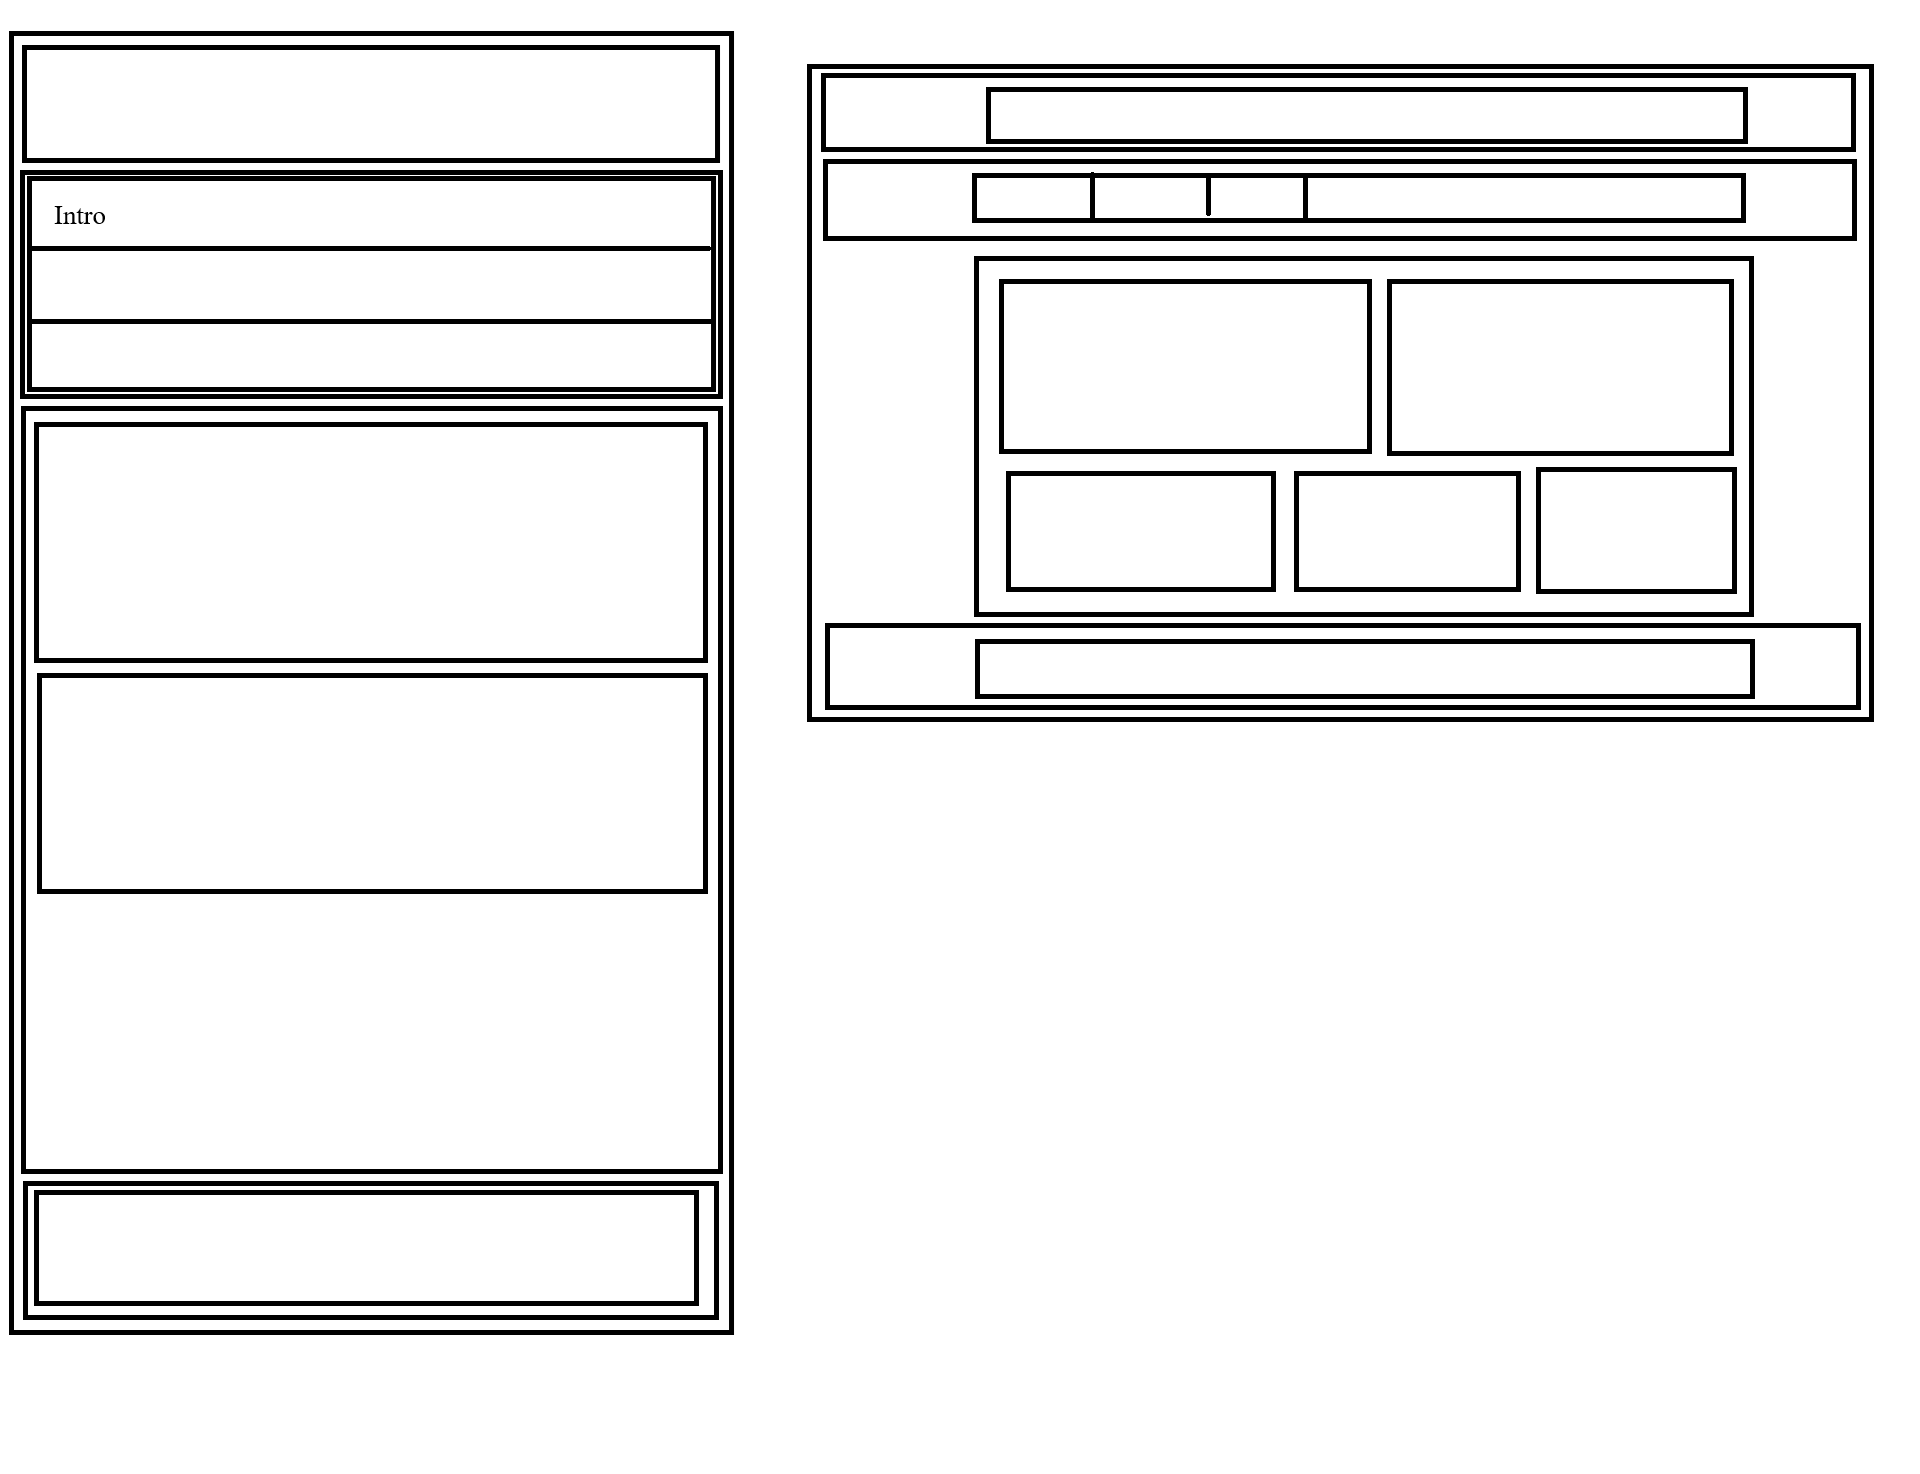
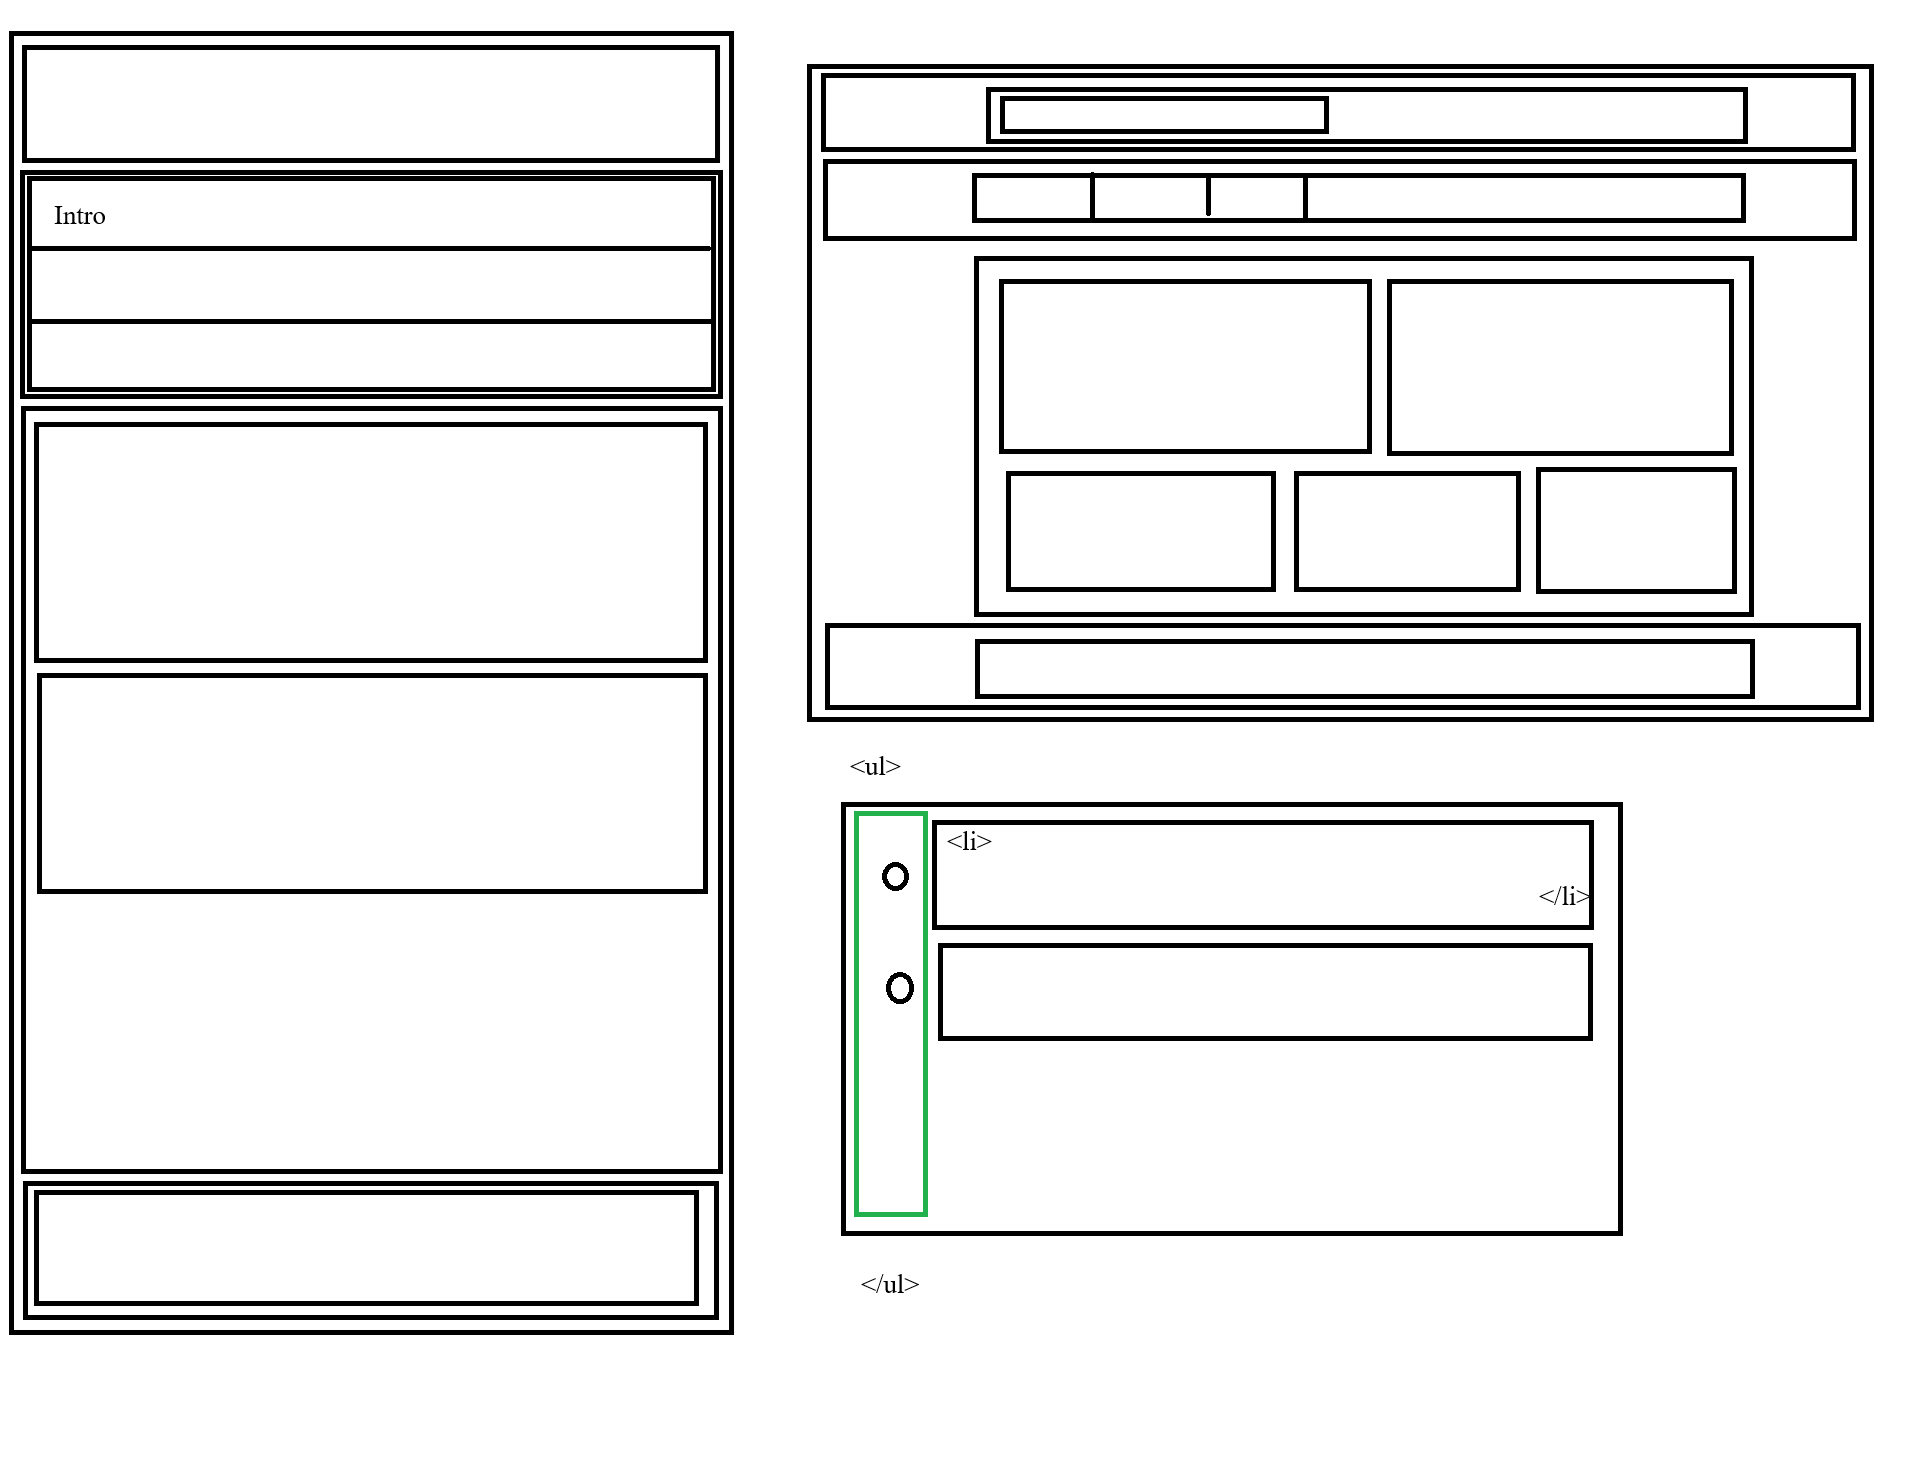
introduction pt 2 mise en page du main

Changed region(s): [[0.4375, 0.5305, 0.8438, 0.8426], [0.5, 0.0624, 0.6875, 0.0936]]

diff --git a/index.html b/index.html
@@ -16,6 +16,45 @@
             <span>Formation HTML - CSS3</span>
         </div>
     </header>
-    
+    <nav>
+        <ul>
+            <li><a href="./index.html" title="Introduction au HTML">Introduction</a></li>
+            <li><a href="./media.html" title="Ajouter des media sur une page">Media</a></li>
+            <li><a href="./contact.html" title="Ajouter un formulaire sur une page">Contact</a></li>
+            <li><a href="./exercice.html" title="Mise en pratique">Exercice</a></li>
+        </ul>
+    </nav>
+    <main>
+        <header>
+            <h1>Introduction au HTML - CSS</h1>
+        </header>
+        <section>
+            <article>
+                <header>
+                    <h2>Balises HTML de contenu texte</h2>
+                </header>
+            </article>
+            <article>
+                <header>
+                    <h2>Balises HTML de modification du texte</h2>
+                </header>
+            </article>
+        </section>
+        <section>
+            <article>
+                <header>
+                    <h2>Mise à "0" du CSS</h2>
+                </header>
+            </article>
+            <article>
+                <header>
+                    <h2>Dimension web en CSS</h2>
+                </header>
+            </article>
+        </section>
+    </main>
+    <footer>
+
+    </footer>
 </body>
 </html>
